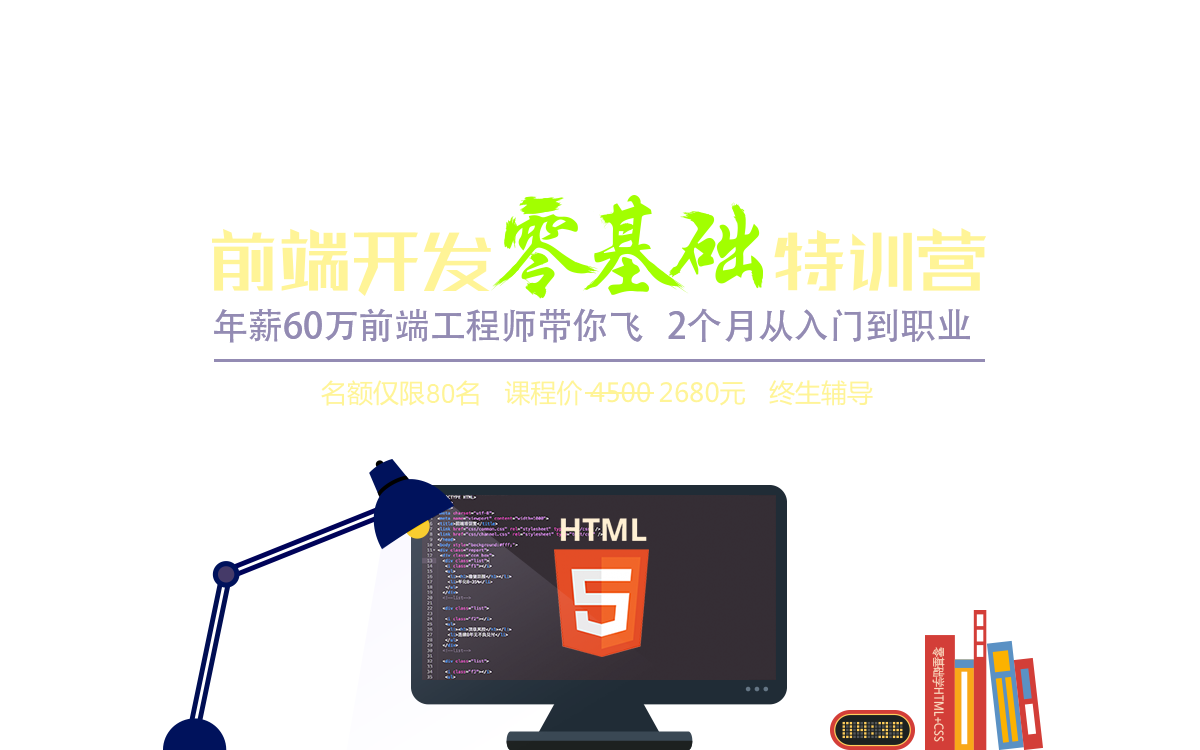
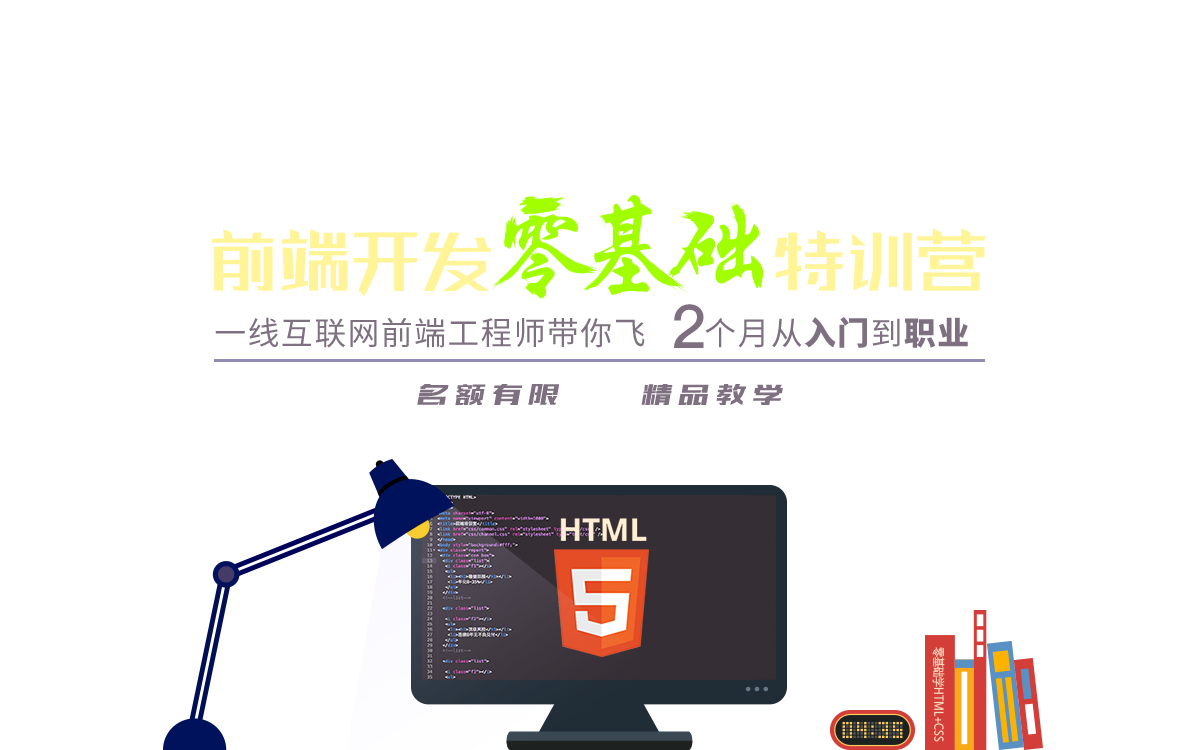
添加电话，头部背景图修改

Changed region(s): [[0.185, 0.3987, 0.8325, 0.552]]

diff --git a/7-js入门/4.2.1-算数操作符.js b/7-js入门/4.2.1-算数操作符.js
@@ -1,19 +1,19 @@
 /**加，减，乘，除，取余*/
 
 var a;
-a=20+20;
+a = 20 + 20;
 console.log(a);
 
-a=a-10;
+a = a - 10;
 console.log(a);
 
-a=a*2;
+a = a * 2;
 console.log(a);
 
-a=a/3;
+a = a / 3;
 console.log(a);
 
-a=a%7;
+a = a % 7;
 console.log(a);
 
 /**自增自减*/
@@ -26,22 +26,22 @@ console.log(--a);//等同于a=a-1，返回a加1之后的值
 
 /**算术操作符结合赋值操作符*/
 
-var b=10;
+var b = 10;
 
-b+=10;//等同于b=b+10
+b += 10;//等同于b=b+10
 
-b-=10;//等同于b=b-10
+b -= 10;//等同于b=b-10
 
-b/=10;//等同于b=b/10
+b /= 10;//等同于b=b/10
 
-b*=10;//等同于b=b*10
+b *= 10;//等同于b=b*10
 
-b%=10;//等同于b=b%10
+b %= 10;//等同于b=b%10
 
 /**不要直接对浮点值进行运算*/
 
-console.log(1.5+0.1+0.1);
+console.log(1.5 + 0.1 + 0.1);
 
 /**正确的做法：小数化为整数最后还原*/
 
-console.log((1.5*10+0.1*10+0.1*10)/10);
+console.log((1.5 * 10 + 0.1 * 10 + 0.1 * 10) / 10);

diff --git a/page2/page/register.html b/page2/page/register.html
@@ -42,7 +42,7 @@
                     tel: $('#tel').val()
                 },
                 success: function (data) {
-                    document.getElementById('reg').innerHTML='<h1>报名成功，我们将在1到3个工作日内与您联系，详细可咨询 <span class="qq">QQ：3351327275/微信：wx3315327275  (长按复制)</span> 钱老师</h1>'
+                    document.getElementById('reg').innerHTML='<h1>报名成功，我们将在1到3个工作日内与您联系，详细可咨询 <span class="qq">QQ：3351327275 <br>微信：wx3315327275 <br>电话：15623473644 <br> (长按复制)</span> 钱老师</h1>'
                 },
                 error:function (data) {
                    /* document.getElementById('reg').innerHTML='<h1>报名成功，我们将在1到3个工作日内与您联系，详细可咨询 <span class="qq">QQ：3351327275/微信：wx3315327275  (长按复制)</span> 钱老师</h1>'*/

diff --git a/7-js入门/4.3-关系操作符.js b/7-js入门/4.3-关系操作符.js
@@ -6,28 +6,24 @@
  * 1.两边都是number
  * 2.两边都是string依次比较字符编码
  * 3.一边是string一边是number，把string转换为number再进行比较，
- * 
+ *
  * 4，其他情况P50
  */
-var a=100,b='1';
-console.log(a>b);
+var a = 100, b = '1';
+console.log(a > b);
 
-var c='a100',d='A100';
-console.log(c>d);
-
-
-
-
+var c = 'a100', d = 'A100';
+console.log(c > d);
 
 
 /**
  * 当两边类型不同时，相等操作符 == 会隐式转换两边类型，再进行比较，这会给代码带来隐患，实际代码中
  * 建议直接使用全等 ===，两边类型不同直接返回false
- * 全等操作符在比较引用类型时是比较的其引用是否相等
+ * 无论全等还是相等操作符在比较引用类型时是比较的其引用是否相等
  *
  */
 console.log(
-    {x:1}==={x:1}
+    {x: 1} === {x: 1}
 );
 
 /**不要将浮点值进行比较*/

diff --git a/7-js入门/4.2.2-算术操作符中的隐式转换.js b/7-js入门/4.2.2-算术操作符中的隐式转换.js
@@ -1,28 +1,27 @@
-
 /**NaN和任何值进行算术操作的结果都是NaN*/
 
-console.log(NaN/2);
+console.log(NaN / 2);
 
 /**
  * 如果被操作的值不是number类型会发生什么？
  *
  */
 
- /**
+/**
  * 1.如果是加运算，任何一边不是number类型，则会把值变成string类型，再将两个字符串进行拼接后返回新的字符串
  *
  * 例如:
  */
 
-var exampleAdd=10+'1';
+var exampleAdd = 10 + '1';
 console.log(exampleAdd);
 
 /**
  * 思考下面几条语句返回什么
  */
-var test1=10+5+'1';
-var test2='1'+10+5;
-var test3='1'+(10+5);
+var test1 = 10 + 5 + '1';
+var test2 = '1' + 10 + 5;
+var test3 = '1' + (10 + 5);
 
 
 /**
@@ -35,5 +34,5 @@ var test3='1'+(10+5);
  *
  * 例如:
  */
-var exampleSub=10-'1';
+var exampleSub = 10 - '1';
 console.log(exampleSub);

diff --git a/7-js入门/5.2-语句流程-循环.js b/7-js入门/5.2-语句流程-循环.js
@@ -1,31 +1,34 @@
 /**
  * for循环 (WebStorm快捷命令itar)
  */
+for (var i = 0; i < obj.length; i++) {
+    var obj1 = obj[i];
 
+}
 
 /**
  * do-while (先干再说)
  * while (三思而后行)
  */
 
-var j=0;
-do{
+var j = 0;
+do {
     j++;
-    console.log('第'+j+'次');
+    console.log('第' + j + '次');
 }
-while (j<=3);
+while (j <= 3);
 
-var k=0;
-while (k<=3){
+var k = 0;
+while (k <= 3) {
     k++;
-    console.log('第'+k+'次');
+    console.log('第' + k + '次');
 }
 
 /**
  * for-in，循环遍历对象的属性 (WebStorm快捷命令itin)
  */
-var obj={
-    x:1,
-    y:'js',
-    z:true
+var obj = {
+    x: 1,
+    y: 'js',
+    z: true
 };

diff --git a/page2/index.html b/page2/index.html
@@ -604,7 +604,8 @@
     <div class="wow fadeInDown top" data-wow-delay="0s" style="visibility: hidden; animation-delay: 0s; animation-name: none;">
         <h1>与其临渊慕鱼，不如立即加入学习</h1>
         <h3>进步往往就在不经意间，或许就是你的一个决定</h3>
-        <h3> <span class="qq">QQ：3351327275 <br>微信：wx3315327275  <br>(长按复制)</span> 钱老师</h3>
+        <h3> <span class="qq">QQ：3351327275 <br>微信：wx3315327275  <br>电话：15623473644
+ <br>(长按复制)</span> 钱老师</h3>
     </div>
     <!--top-->
 

diff --git a/7-js入门/4.1-赋值操作符.js b/7-js入门/4.1-赋值操作符.js
@@ -1,20 +1,20 @@
 /**
  * 等号赋值，先对等号右边求值，再赋值给左边的变量
  */
-var a=1;
-a=a+1;
+var a = 1;
+a = a + 1;
 console.log(a);
 
 
-var b=2;
-b=a+b+1;
-console.log(a,b);
+var b = 2;
+b = a + b + 1;
+console.log(a, b);
 
 /**
  * P69
  * 将一个基本类型的值赋值给变量时，变量中储存的是这个值的拷贝
- * 
+ *
  * 将一个对象赋值给变量时，变量中储存的是这个对象的地址
- * 
+ *
  * 将一个变量赋值给另一个变量时，会将前者储存的值拷贝一份给后者
  */

diff --git a/7-js入门/5.1-语句流程-条件分支.js b/7-js入门/5.1-语句流程-条件分支.js
@@ -4,16 +4,16 @@
  * 不是boolean类型则执行隐式转换，转换规则参考逻辑非(!)
  */
 var a;
-a=1;
-if (a===1){
+a = 1;
+if (a === 1) {
     console.log('if条件命中');
 }
 /**
  * switch
  */
 var b;
-b=0;
-switch (b){
+b = 0;
+switch (b) {
     case 0:
         console.log('b等于0');
         break;
@@ -21,6 +21,6 @@ switch (b){
         console.log('b等于1');
         break;
     /*case null&&0:
-        console.log('test');
-        break;*/
+     console.log('test');
+     break;*/
 }

diff --git a/7-js入门/3.3-类型-number.js b/7-js入门/3.3-类型-number.js
@@ -6,4 +6,4 @@
  */
 var a=2;//整数类型
 var b=1.5;//浮点类型
-var c=NaN //不是数字的数字，通常来自不正确的数学运算
+var c=NaN; //不是数字的数字，通常来自不正确的数学运算
